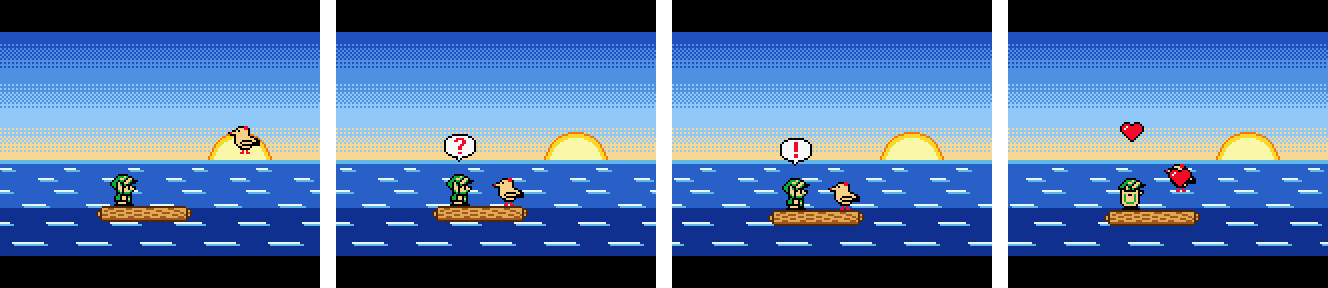
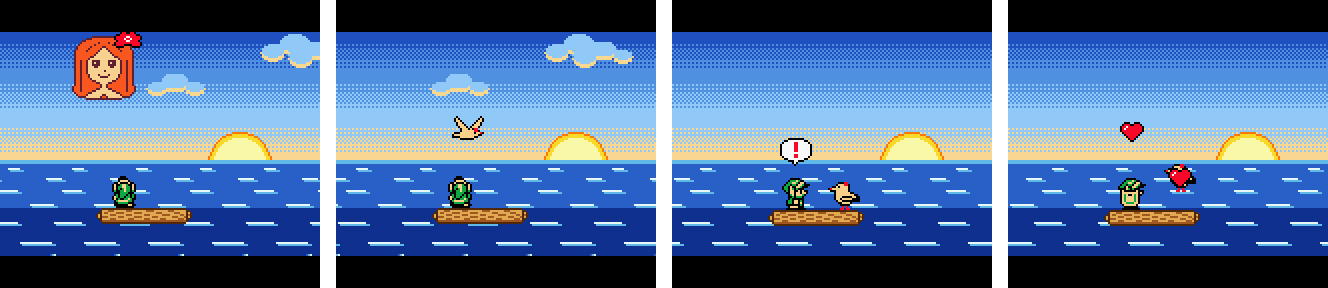
Film d'ouverture : nuages et visage de Marine dans le ciel
- art/film_sprites.txt : portrait de Marine (32x32) et sa fleur ;
- tools/make_film.py : nuages bleu clair dorés par le soleil levant ;
- tools/preview_film.py : aperçu en couleurs d'une image du film sans
  compiler ;
- README FR / EN, idées et notes de travail à jour.

diff --git a/tools/make_film.py b/tools/make_film.py
@@ -4,7 +4,7 @@
 - gfx_film_bg.png : tuiles du décor (ciel à l'aube, horizon, mer), sans doublons ;
 - map_film_bg.bin / flg_film_bg.bin : carte du décor (32 x 18 tuiles) et attributs (palettes) ;
 - spr_film.png : sprites (poses de Link prises dans spr_link.png, Marine en mouette,
-  rondin, soleil, bulles « ! » et « ? », cœur).
+  rondin, soleil, bulles « ! » et « ? », cœur, visage de Marine dans les nuages et sa fleur).
 
 La mer se répète tous les 32 pixels : le jeu peut faire défiler tout le décor (le ciel est
 uni sur chaque ligne, on ne voit bouger que les vagues).
@@ -28,8 +28,28 @@ SPR_GREY = {'.': 0, 'k': 85, 'r': 170, 'w': 255}  # spr_* : couleurs inversées
 HORIZON = 80   # ligne de l'horizon (pixels)
 
 
+# Nuages : cercles (x, y, rayon) ; le décor fait 256 pixels de large et se répète
+CLOUDS = [
+    [(20, 34, 7), (30, 30, 9), (42, 32, 8), (52, 35, 6), (36, 37, 7)],
+    [(138, 44, 5), (147, 41, 7), (157, 44, 5)],
+    [(196, 26, 6), (207, 22, 8), (219, 25, 7), (229, 28, 5), (210, 29, 6)],
+]
+
+
+def in_cloud(x, y):
+    for cloud in CLOUDS:
+        for (cx, cy, r) in cloud:
+            dx = (x - cx + 128) % 256 - 128
+            if dx * dx + (y - cy) * (y - cy) * 2 <= r * r:
+                return True
+    return False
+
+
 def sky_color(x, y):
-    """Dégradé du haut (bleu nuit) vers l'horizon (lueur), avec un tramage entre les bandes."""
+    """Dégradé du haut (bleu nuit) vers l'horizon (lueur), avec un tramage entre les bandes.
+    Les nuages sont bleu clair, dorés par le soleil levant sur leur bord inférieur."""
+    if in_cloud(x, y):
+        return 3 if not in_cloud(x, y + 2) else 2
     t = (y - 16) / (HORIZON - 16) * 3.0   # 0 en haut du ciel, 3 à l'horizon
     base = int(t)
     frac = t - base
@@ -132,7 +152,7 @@ def read_gull_frames():
 
 
 def build_sprites():
-    im = Image.new('L', (128, 32), 0)
+    im = Image.new('L', (128, 64), 0)
     link = Image.open(LINK_PNG).convert('L')
 
     def put_cell(cell, row, rows=None, link_cell=None):
@@ -167,6 +187,11 @@ def build_sprites():
         put_cell(3 + i, 1, [r[i * 16:i * 16 + 16] for r in art['sun']])
     put_cell(5, 1, art['heart'])
     put_cell(6, 1, art['question'])
+    # Lignes 2-3 : visage de Marine (2x2 cases), sa fleur
+    for i in range(2):
+        for j in range(2):
+            put_cell(i, 2 + j, [r[i * 16:i * 16 + 16] for r in art['face'][j * 16:j * 16 + 16]])
+    put_cell(2, 2, art['flower'])
 
     out = Image.new('P', im.size)
     out.putpalette([0, 0, 0, 85, 85, 85, 170, 170, 170, 255, 255, 255] + [0] * (768 - 12))

diff --git a/tools/preview_film.py b/tools/preview_film.py
@@ -1,0 +1,65 @@
+"""Aperçu en couleurs d'une image du film, sans compiler (après tools/make_film.py).
+
+Recompose le décor depuis map/flg et pose les sprites aux positions du film, avec les
+couleurs de PALH_FILM.
+
+Usage : python tools/preview_film.py SORTIE.png
+"""
+import os
+import sys
+
+from PIL import Image
+
+ROOT = os.path.dirname(os.path.dirname(os.path.abspath(__file__)))
+G = os.path.join(ROOT, 'oracles-disasm', 'gfx_compressible', 'ages')
+
+
+def rgb(r, g, b):
+    return (r * 8, g * 8, b * 8)
+
+
+BG = [[rgb(0, 0, 0)] * 4,
+      [rgb(4, 10, 24), rgb(10, 18, 28), rgb(18, 25, 31), rgb(31, 27, 18)],
+      [rgb(2, 6, 18), rgb(5, 12, 25), rgb(12, 23, 29), rgb(29, 31, 31)]]
+SP = {0: [None, rgb(0, 0, 0), rgb(2, 21, 8), rgb(31, 26, 17)],
+      1: [None, rgb(0, 0, 0), rgb(31, 1, 5), rgb(31, 26, 17)],
+      2: [None, rgb(10, 5, 1), rgb(20, 11, 4), rgb(28, 21, 10)],
+      3: [None, rgb(31, 15, 1), rgb(31, 27, 5), rgb(31, 31, 21)],
+      4: [None, rgb(0, 0, 0), rgb(31, 1, 5), rgb(31, 31, 31)],
+      5: [None, rgb(12, 4, 6), rgb(31, 11, 4), rgb(31, 26, 18)]}
+
+
+def main():
+    tiles = Image.open(os.path.join(G, 'gfx_film_bg.png')).convert('L')
+    m = open(os.path.join(G, 'map_film_bg.bin'), 'rb').read()
+    f = open(os.path.join(G, 'flg_film_bg.bin'), 'rb').read()
+    grey2c = {255: 0, 170: 1, 85: 2, 0: 3}
+    scr = Image.new('RGB', (160, 144))
+    for ty in range(18):
+        for tx in range(20):
+            t, p = m[ty * 32 + tx], f[ty * 32 + tx]
+            for y in range(8):
+                for x in range(8):
+                    g = tiles.getpixel(((t % 16) * 8 + x, (t // 16) * 8 + y))
+                    scr.putpixel((tx * 8 + x, ty * 8 + y), BG[p][grey2c[g]])
+    spr = Image.open(os.path.join(G, 'spr_film.png')).convert('L')
+    g2 = {0: 0, 85: 1, 170: 2, 255: 3}
+
+    def put(cx, cy, w, h, sx, sy, pal, flip=False):
+        for y in range(h):
+            for x in range(w):
+                xx = w - 1 - x if flip else x
+                c = g2[spr.getpixel((cx * 16 + xx, cy * 16 + y))]
+                if c and 0 <= sx + x < 160 and 0 <= sy + y < 144:
+                    scr.putpixel((sx + x, sy + y), SP[pal][c])
+
+    # Du fond vers le premier plan
+    put(3, 1, 32, 16, 104, 64, 3)      # soleil
+    put(0, 1, 48, 16, 48, 100, 2)      # rondin
+    put(0, 2, 32, 32, 36, 18, 5)       # visage de Marine
+    put(2, 2, 16, 16, 56, 14, 4)       # sa fleur
+    put(1, 0, 16, 16, 54, 88, 0)       # Link de dos, il lève les yeux
+    scr.resize((480, 432), Image.NEAREST).save(sys.argv[1])
+
+
+main()

diff --git a/README.md b/README.md
@@ -26,8 +26,7 @@ les obstacles.
 | Marine en mouette (sprite dessiné pour le jeu, avec sa fleur d'hibiscus) | ✅ |
 | Chapitre 1 : Link évanoui, Marine arrive en volant, se pose et lui parle (choix de réponse) | ✅ |
 | Textes en français, avec les accents | ✅ |
-| Film d'ouverture avant l'écran titre : à l'aube, Link dérive sur son rondin, une mouette se pose, « ? », clin d'œil, « ! », ils sautent de joie tous les deux et leurs cœurs s'envolent | ✅ |
-| Dans le film, le visage de Marine dans les nuages (comme à la fin secrète de *Link's Awakening*) | à faire |
+| Film d'ouverture avant l'écran titre : à l'aube, Link dérive sur son rondin et lève les yeux ; le visage de Marine apparaît dans les nuages (comme à la fin secrète de *Link's Awakening*) et s'efface ; une mouette s'en envole et se pose, « ? », clin d'œil, « ! », ils sautent de joie tous les deux et leurs cœurs s'envolent | ✅ |
 | Écran titre *Gulls of Life* (aujourd'hui : celui d'*Ages*) | à faire |
 | Marine qui suit Link et donne des indices | à faire |
 | Dormir pour passer dans le Songe (Marine y redevient humaine) | à faire |
@@ -46,7 +45,7 @@ présent/passé d'*Ages* servira au Réel et au Songe.
 | Code, scripts, données | Branche [`hack/gulls-of-life`](https://github.com/soaresden/oracles-disasm/tree/hack/gulls-of-life) du fork (ajouts marqués `BALLADE`) : `scripts/ages/ballade.s`, `object_code/ages/interactions/marine.s` |
 | Dialogues | `story/textes.yaml`, en français normal ; `tools/make_text.py` les ajoute au jeu, `tools/check_text.py` vérifie la largeur des lignes (16 caractères) |
 | Sprites | Dessins en texte dans `art/` ; `tools/make_sprites.py` les convertit |
-| Film d'ouverture | `code/ages/cutscenes/film.s` (fork) ; décor et sprites fabriqués par `tools/make_film.py` (ciel, soleil, mer, rondin, poses de Link prises dans le jeu) |
+| Film d'ouverture | `code/ages/cutscenes/film.s` (fork) ; décor et sprites fabriqués par `tools/make_film.py` (ciel et nuages, soleil, mer, rondin, poses de Link prises dans le jeu, visage de Marine) ; `tools/preview_film.py` en donne un aperçu sans compiler |
 | Tests | `tools/play.py` joue la ROM dans PyBoy et prend des captures |
 
 Aucune ROM n'est distribuée ici : il faudra un patch à appliquer sur sa propre

diff --git a/README.en.md b/README.en.md
@@ -25,8 +25,7 @@ no matter what.
 | Marin as a seagull (sprite drawn for the game, with her hibiscus flower) | ✅ |
 | Chapter 1: Link lies unconscious, Marin flies in, lands and talks to him (with a choice) | ✅ |
 | French text, with accents (the game is in French first) | ✅ |
-| Opening film before the title screen: at dawn, Link drifts on his log, a seagull lands, "?", a wink, "!", they both jump for joy and their hearts fly up | ✅ |
-| In the film, Marin's face in the clouds (like *Link's Awakening*'s secret ending) | to do |
+| Opening film before the title screen: at dawn, Link drifts on his log and looks up; Marin's face appears in the clouds (like *Link's Awakening*'s secret ending) and fades away; a seagull flies out of it and lands, "?", a wink, "!", they both jump for joy and their hearts fly up | ✅ |
 | *Gulls of Life* title screen (currently *Ages*') | to do |
 | Marin following Link and giving hints | to do |
 | Sleeping to enter the Dream World (where Marin is human again) | to do |
@@ -45,7 +44,7 @@ become the Real World / Dream World switch.
 | Code, scripts, data | [`hack/gulls-of-life`](https://github.com/soaresden/oracles-disasm/tree/hack/gulls-of-life) branch of the fork (additions tagged `BALLADE`): `scripts/ages/ballade.s`, `object_code/ages/interactions/marine.s` |
 | Dialogue | `story/textes.yaml`, plain French; `tools/make_text.py` adds it to the game, `tools/check_text.py` checks line width (16 characters) |
 | Sprites | Text drawings in `art/`; `tools/make_sprites.py` converts them |
-| Opening film | `code/ages/cutscenes/film.s` (fork); background and sprites made by `tools/make_film.py` (sky, sun, sea, log, Link poses taken from the game) |
+| Opening film | `code/ages/cutscenes/film.s` (fork); background and sprites made by `tools/make_film.py` (sky and clouds, sun, sea, log, Link poses taken from the game, Marin's face); `tools/preview_film.py` previews it without building |
 | Tests | `tools/play.py` plays the ROM in PyBoy and takes screenshots |
 
 No ROM is distributed here: there will be a patch to apply to your own

diff --git a/CLAUDE.md b/CLAUDE.md
@@ -40,5 +40,6 @@ Ne pas dévoiler le twist de l'histoire à Denis : il veut le découvrir en joua
 - Lit qui fait dormir Link : `checkLinkPushingAgainstBed` (link.s), LINK_STATE_SLEEPING -> futur passage au Songe.
 - Intro : runIntroCinematic (bank3Cutscenes.s) : 0 = notre film (à la place de la chevauchée), 1 = temple
   (sauté), 2 = montée de l'arbre puis écran titre.
-- Idée suivante pour le film : le visage de Marine dans les nuages quand Link lève les yeux (fin secrète
-  de LA ; références montrées par Denis : portrait pixel de Hyrule Warriors, fin du remake Switch).
+- Film : visage de Marine dans les nuages (art/film_sprites.txt @face, palette 5, scintillement
+  pour l'effet de vision ; minuteur en $cbc0). Références de Denis : portrait pixel de Hyrule
+  Warriors, fin du remake Switch.

diff --git a/story/idees.md b/story/idees.md
@@ -2,12 +2,6 @@
 
 Notées au fil des discussions avec Denis. Pas de spoil du twist ici.
 
-## Film d'ouverture
-- Quand Link lève les yeux vers le ciel : le **visage de Marine se dessine dans les nuages**,
-  s'efface, puis la mouette apparaît (clin d'œil à la fin secrète de *Link's Awakening*, quand
-  on finit sans mourir). Références : le portrait pixel de Marine dans *Hyrule Warriors*, la
-  fin en dessin animé du remake Switch. Il faudra des nuages dans le ciel du film.
-
 ## Les photos de Cocolint
 - Clin d'œil à l'album de la souris photographe de *Link's Awakening DX*. Dans une veillée ou
   dans le Songe, Marine fouille la poche de Link :
